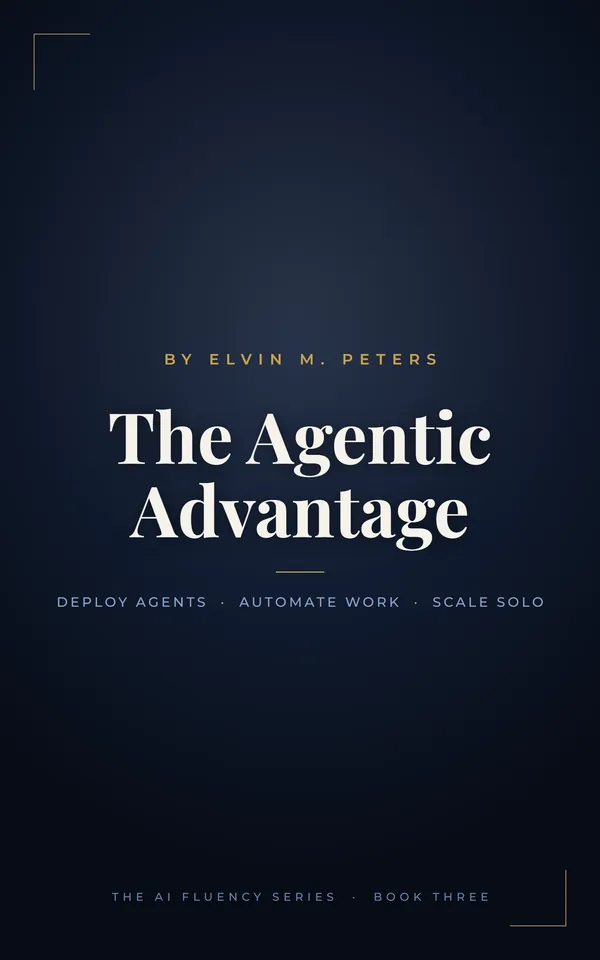
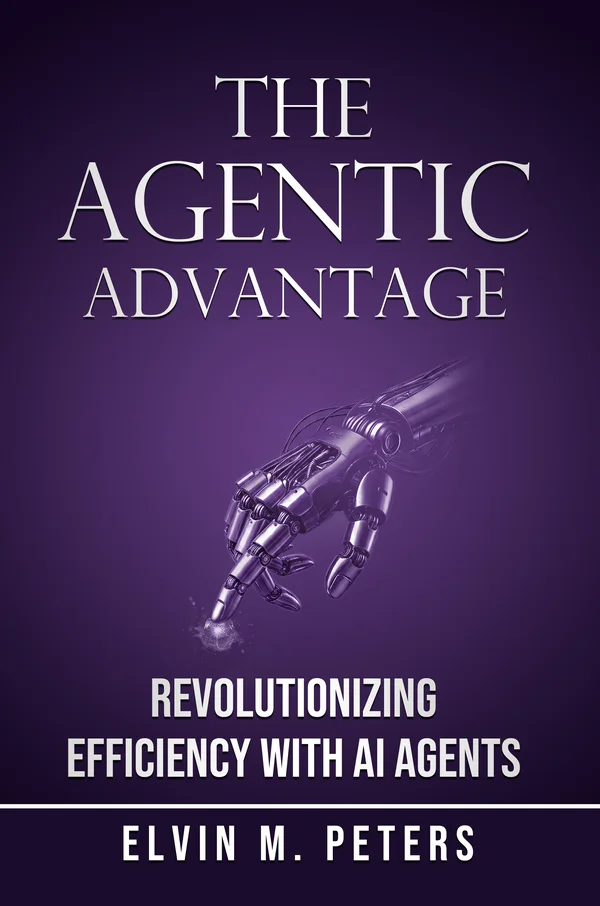
Series band: swap draft mockups for the real Book 2 and 3 covers
The final designed covers (green gear, purple hand) replace the May-era
navy mockups; intrinsic dims corrected to the real 600x906 ratio.

diff --git a/index.html b/index.html
@@ -390,7 +390,7 @@ footer a{color:var(--ink-2)} footer a:hover{color:var(--gold-2)}
         </div>
 
         <div class="sbook">
-          <img src="/img/cover-book2.webp" alt="The Systematic Advantage, book two of the AI Fluency Series" width="600" height="960" loading="lazy">
+          <img src="/img/cover-book2.webp" alt="The Systematic Advantage, book two of the AI Fluency Series" width="600" height="906" loading="lazy">
           <span class="sb-n">Book Two &middot; In progress</span>
           <b>The Systematic Advantage</b>
           <span class="sb-d">Turn one good result into a repeatable system, so the skill compounds instead of resetting every time.</span>
@@ -398,7 +398,7 @@ footer a{color:var(--ink-2)} footer a:hover{color:var(--gold-2)}
         </div>
 
         <div class="sbook">
-          <img src="/img/cover-book3.webp" alt="The Agentic Advantage, book three of the AI Fluency Series" width="600" height="960" loading="lazy">
+          <img src="/img/cover-book3.webp" alt="The Agentic Advantage, book three of the AI Fluency Series" width="600" height="906" loading="lazy">
           <span class="sb-n">Book Three &middot; Planned</span>
           <b>The Agentic Advantage</b>
           <span class="sb-d">Hand the repeatable work to agents that run without you, and keep the judgment that stays yours.</span>
